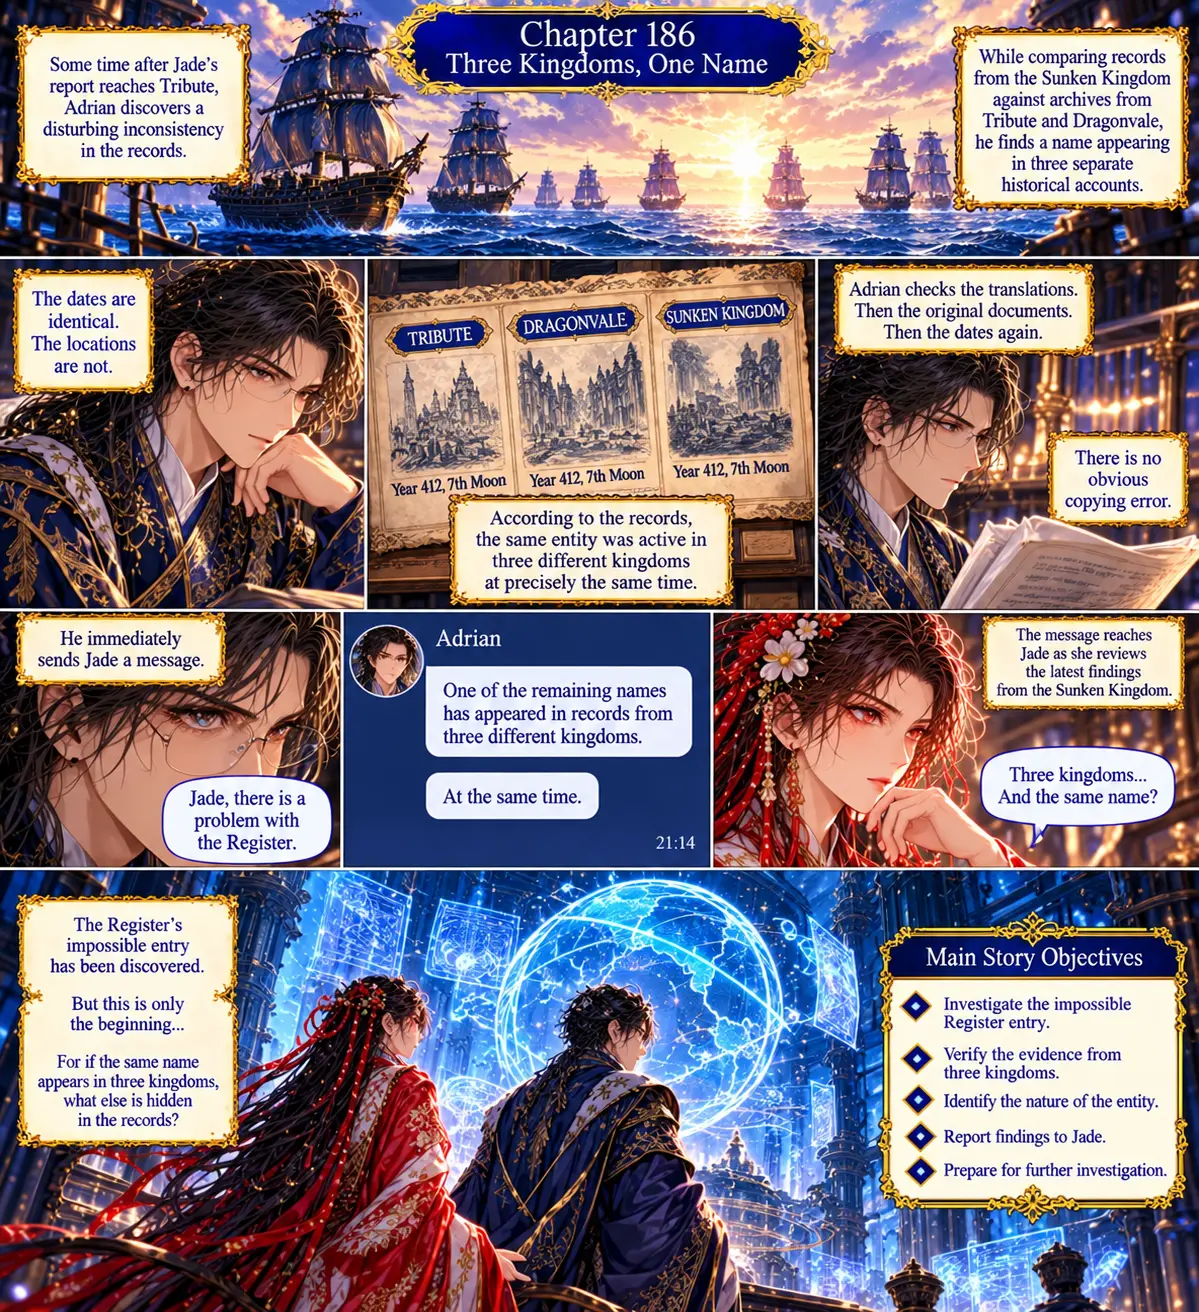
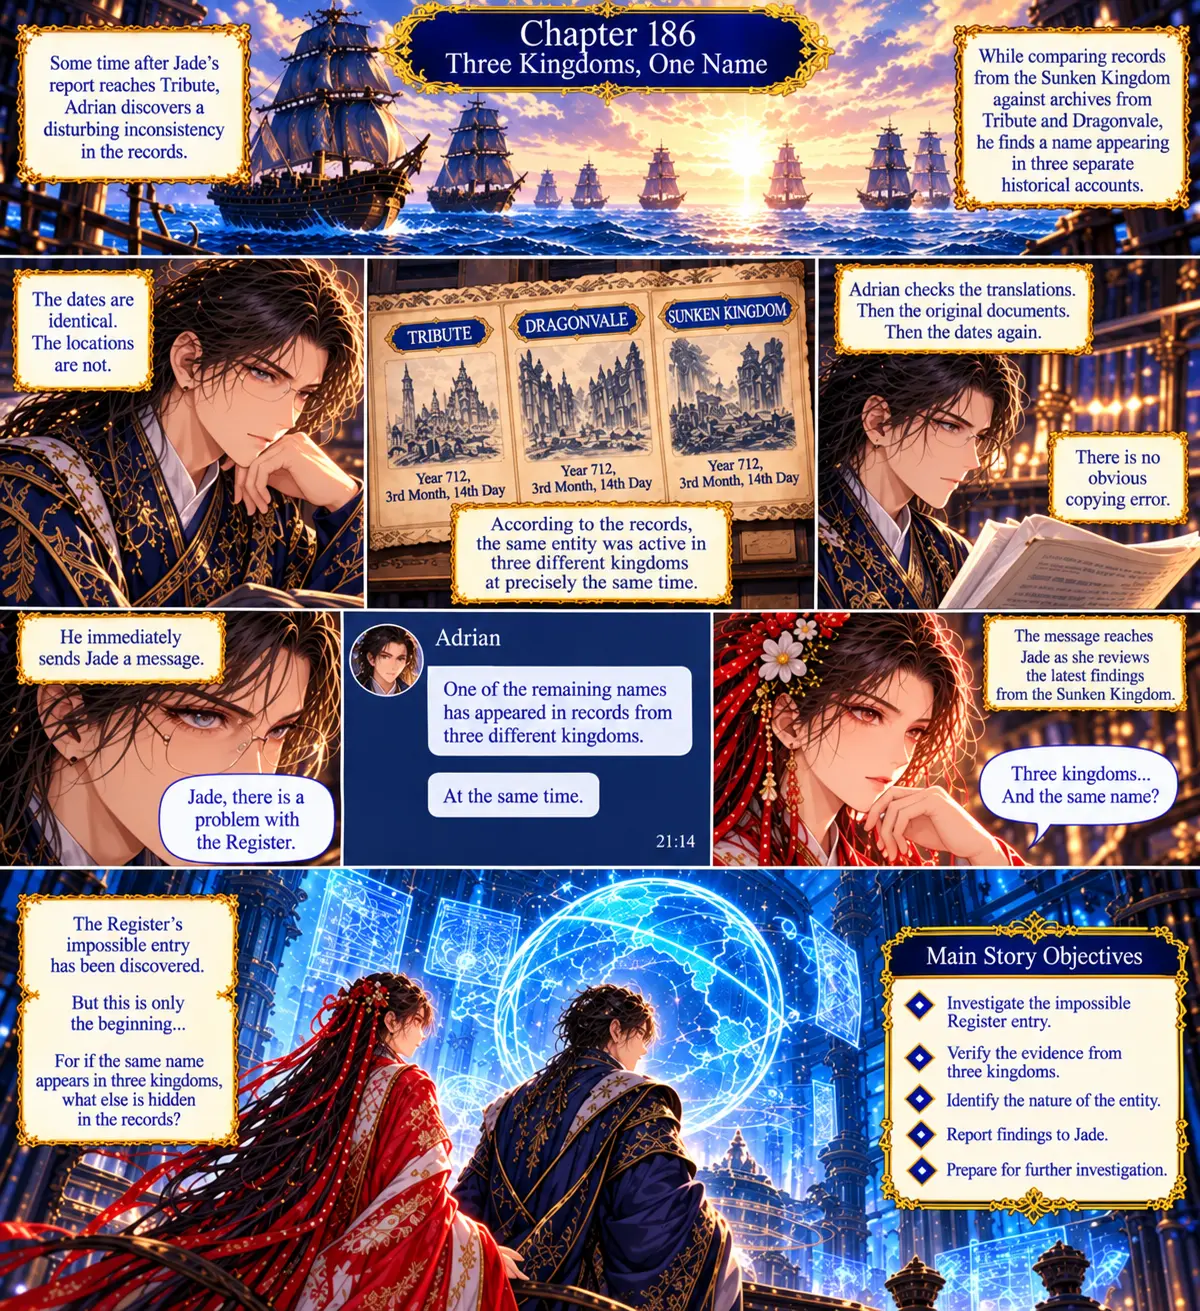
Regenerated chapter 186 page with the corrected date
Claude-Session: https://claude.ai/code/session_01JgCx3Matg4MVjEr67ncDB4

diff --git a/sw.js b/sw.js
@@ -1,5 +1,5 @@
 /* Tribute service worker: app shell is cached for offline play; images and other assets are cached as you play. */
-const VERSION = 'tribute-v97';
+const VERSION = 'tribute-v98';
 const SHELL = ['./', './index.html', './styles.css', './manifest.webmanifest',
   './scripts/chapters.js','./scripts/characters.js','./scripts/skilltree.js','./scripts/core.js','./scripts/enemies.js','./scripts/battle.js','./scripts/autobattle.js',
   './scripts/journal.js','./scripts/world.js','./scripts/world-ui.js','./scripts/maps.js','./scripts/voyage.js','./scripts/family.js','./scripts/raid.js','./scripts/network.js','./scripts/evils.js','./scripts/relations.js','./scripts/regard.js','./scripts/whispers.js','./scripts/chronicle.js','./scripts/salary.js','./scripts/apprentice.js','./scripts/banter.js','./scripts/corruption.js','./scripts/explore.js','./scripts/arcs.js','./scripts/base.js','./scripts/skirmish.js','./scripts/items.js','./scripts/gear.js','./scripts/loot.js','./scripts/gates.js','./scripts/standing.js','./scripts/overheard.js','./scripts/deeds.js','./scripts/estates.js','./scripts/archive.js','./scripts/sunken.js','./scripts/passages.js','./scripts/codex.js','./scripts/growth.js','./scripts/echoes.js','./scripts/vows.js','./scripts/outfits.js','./scripts/royals.js','./scripts/arc9.js','./scripts/residents.js','./scripts/routes.js','./scripts/timed.js','./scripts/ways.js','./scripts/repute.js','./scripts/regmarks.js','./scripts/roc.js','./scripts/rewards.js','./scripts/tracker.js',

diff --git a/docs/DRAGONVALE_YEAR_PLAN.md b/docs/DRAGONVALE_YEAR_PLAN.md
@@ -638,3 +638,8 @@ Author: the wedding portraits should last the 14-day celebration and then everyo
 - New King Greyson portrait (assets/npc/greyson.webp): black-and-gold dragon robes, crown, no blue-and-fur.
 - Mismatches to confirm: ch235 shows an unnamed cat with the couple (not built); Jade's findings come "from her visions and research" (visions are not otherwise built into the alliance research); in ch234 Jade's gown in the group panel looks cream; "beyond this island" in ch235 (Tribute is the island in this text).
 - Ch186 still needs a regenerated page: only the three record cards change, from "Year 412, 7th Moon" to "Year 712, 3rd Month, 14th Day". Everything else on the page stays.
+
+## Chapter 186 regenerated (v98)
+
+- Ch186 page replaced: the three record cards now read "Year 712, 3rd Month, 14th Day". Adrian stays in navy-and-gold on this page. Author: navy/black/blue is his secondary outfit, worn on missions and when he has no court to attend; green-and-gold scholar robes are his court look. Not a mismatch.
+- Still pending: Arc IX cover replacement (the author is regenerating it; swap assets/arcs/arc9.webp), the Arc VI and Arc VII map images, and a new Greyson-style check of any page that shows him in the old fur robes. No Arc IX cast sheet: the arc introduces only Eve.
